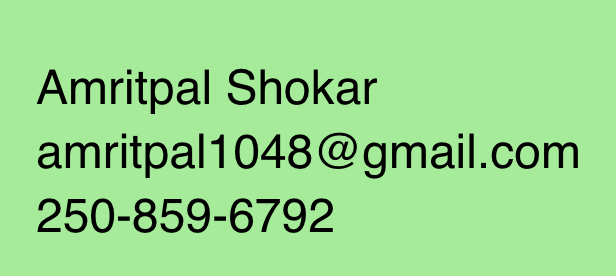
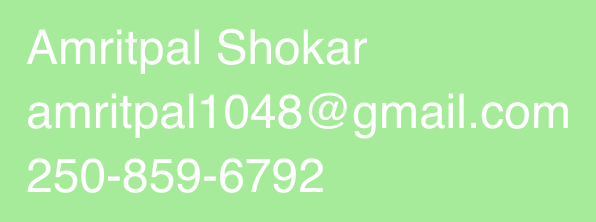
Added new font for contact info

Changed region(s): [[0.0302, 0.4054, 0.9664, 0.6486], [0.0302, 0.1351, 0.6342, 0.4054], [0.0302, 0.7027, 0.5436, 0.8649]]

diff --git a/src/components/contact/Contact.tsx b/src/components/contact/Contact.tsx
@@ -1,21 +1,32 @@
 import styles from './Contact.module.css'
-import { Box, Grid, Typography } from '@material-ui/core'
+
+import { Box, Grid, Typography, makeStyles, createStyles, Theme } from '@material-ui/core'
 
 import letter from '../../res/letter.png'
 import contact from '../../res/contact.png'
 
+const useStyles = makeStyles((theme: Theme) =>
+  createStyles({
+   typography: {
+    fontFamily: 'Poppins',
+    fontSize: '2em'
+   }
+  }),
+);
+
 const Contact = () => {
+    const classes = useStyles()
     return (
         <Box className={styles["section"]}>
             <Grid container xs={12} alignItems="center">
                 <Grid item xs={2} />
-                <Grid item xs={5}>
+                <Grid item xs={4}>
                     <img alt="icongeek26" src={letter} className={styles['image']} />
                 </Grid>
                 <Grid item xs={4}>
                     <img alt="contact" src={contact} className={styles['contactImage']} />
                 </Grid>
-                <Grid item xs={1} />
+                <Grid item xs={2} />
             </Grid>
         </Box>
     )

diff --git a/src/components/contact/Contact.module.css b/src/components/contact/Contact.module.css
@@ -1,3 +1,5 @@
+@import url('https://fonts.googleapis.com/css2?family=Poppins:ital,wght@1,500&display=swap');
+
 .section {
     background-color: lightgreen;
 }
@@ -7,5 +9,5 @@
 }
 
 .contactImage {
-    height: 10em;
+    height: 9em;
 }
